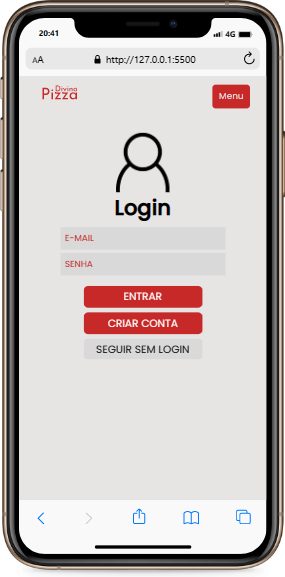
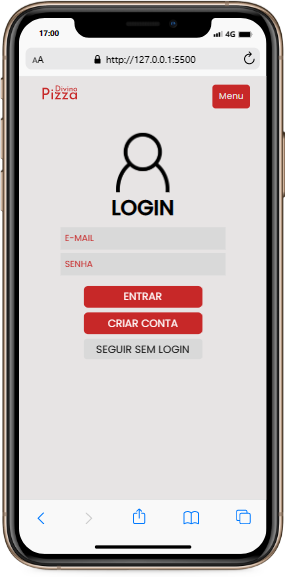
post

diff --git a/index.html b/index.html
@@ -22,7 +22,7 @@
     </header>
     <main>
         <img src="img/img_88236.png" alt="login icon" id="login-icon">
-        <h1>Login</h1>
+        <h1>LOGIN</h1>
         <DIV class="button-input">
             <input type="email" name="email" id="iemail" placeholder="E-MAIL">
             <input type="password" name="senha" id="isenha" placeholder="SENHA">
